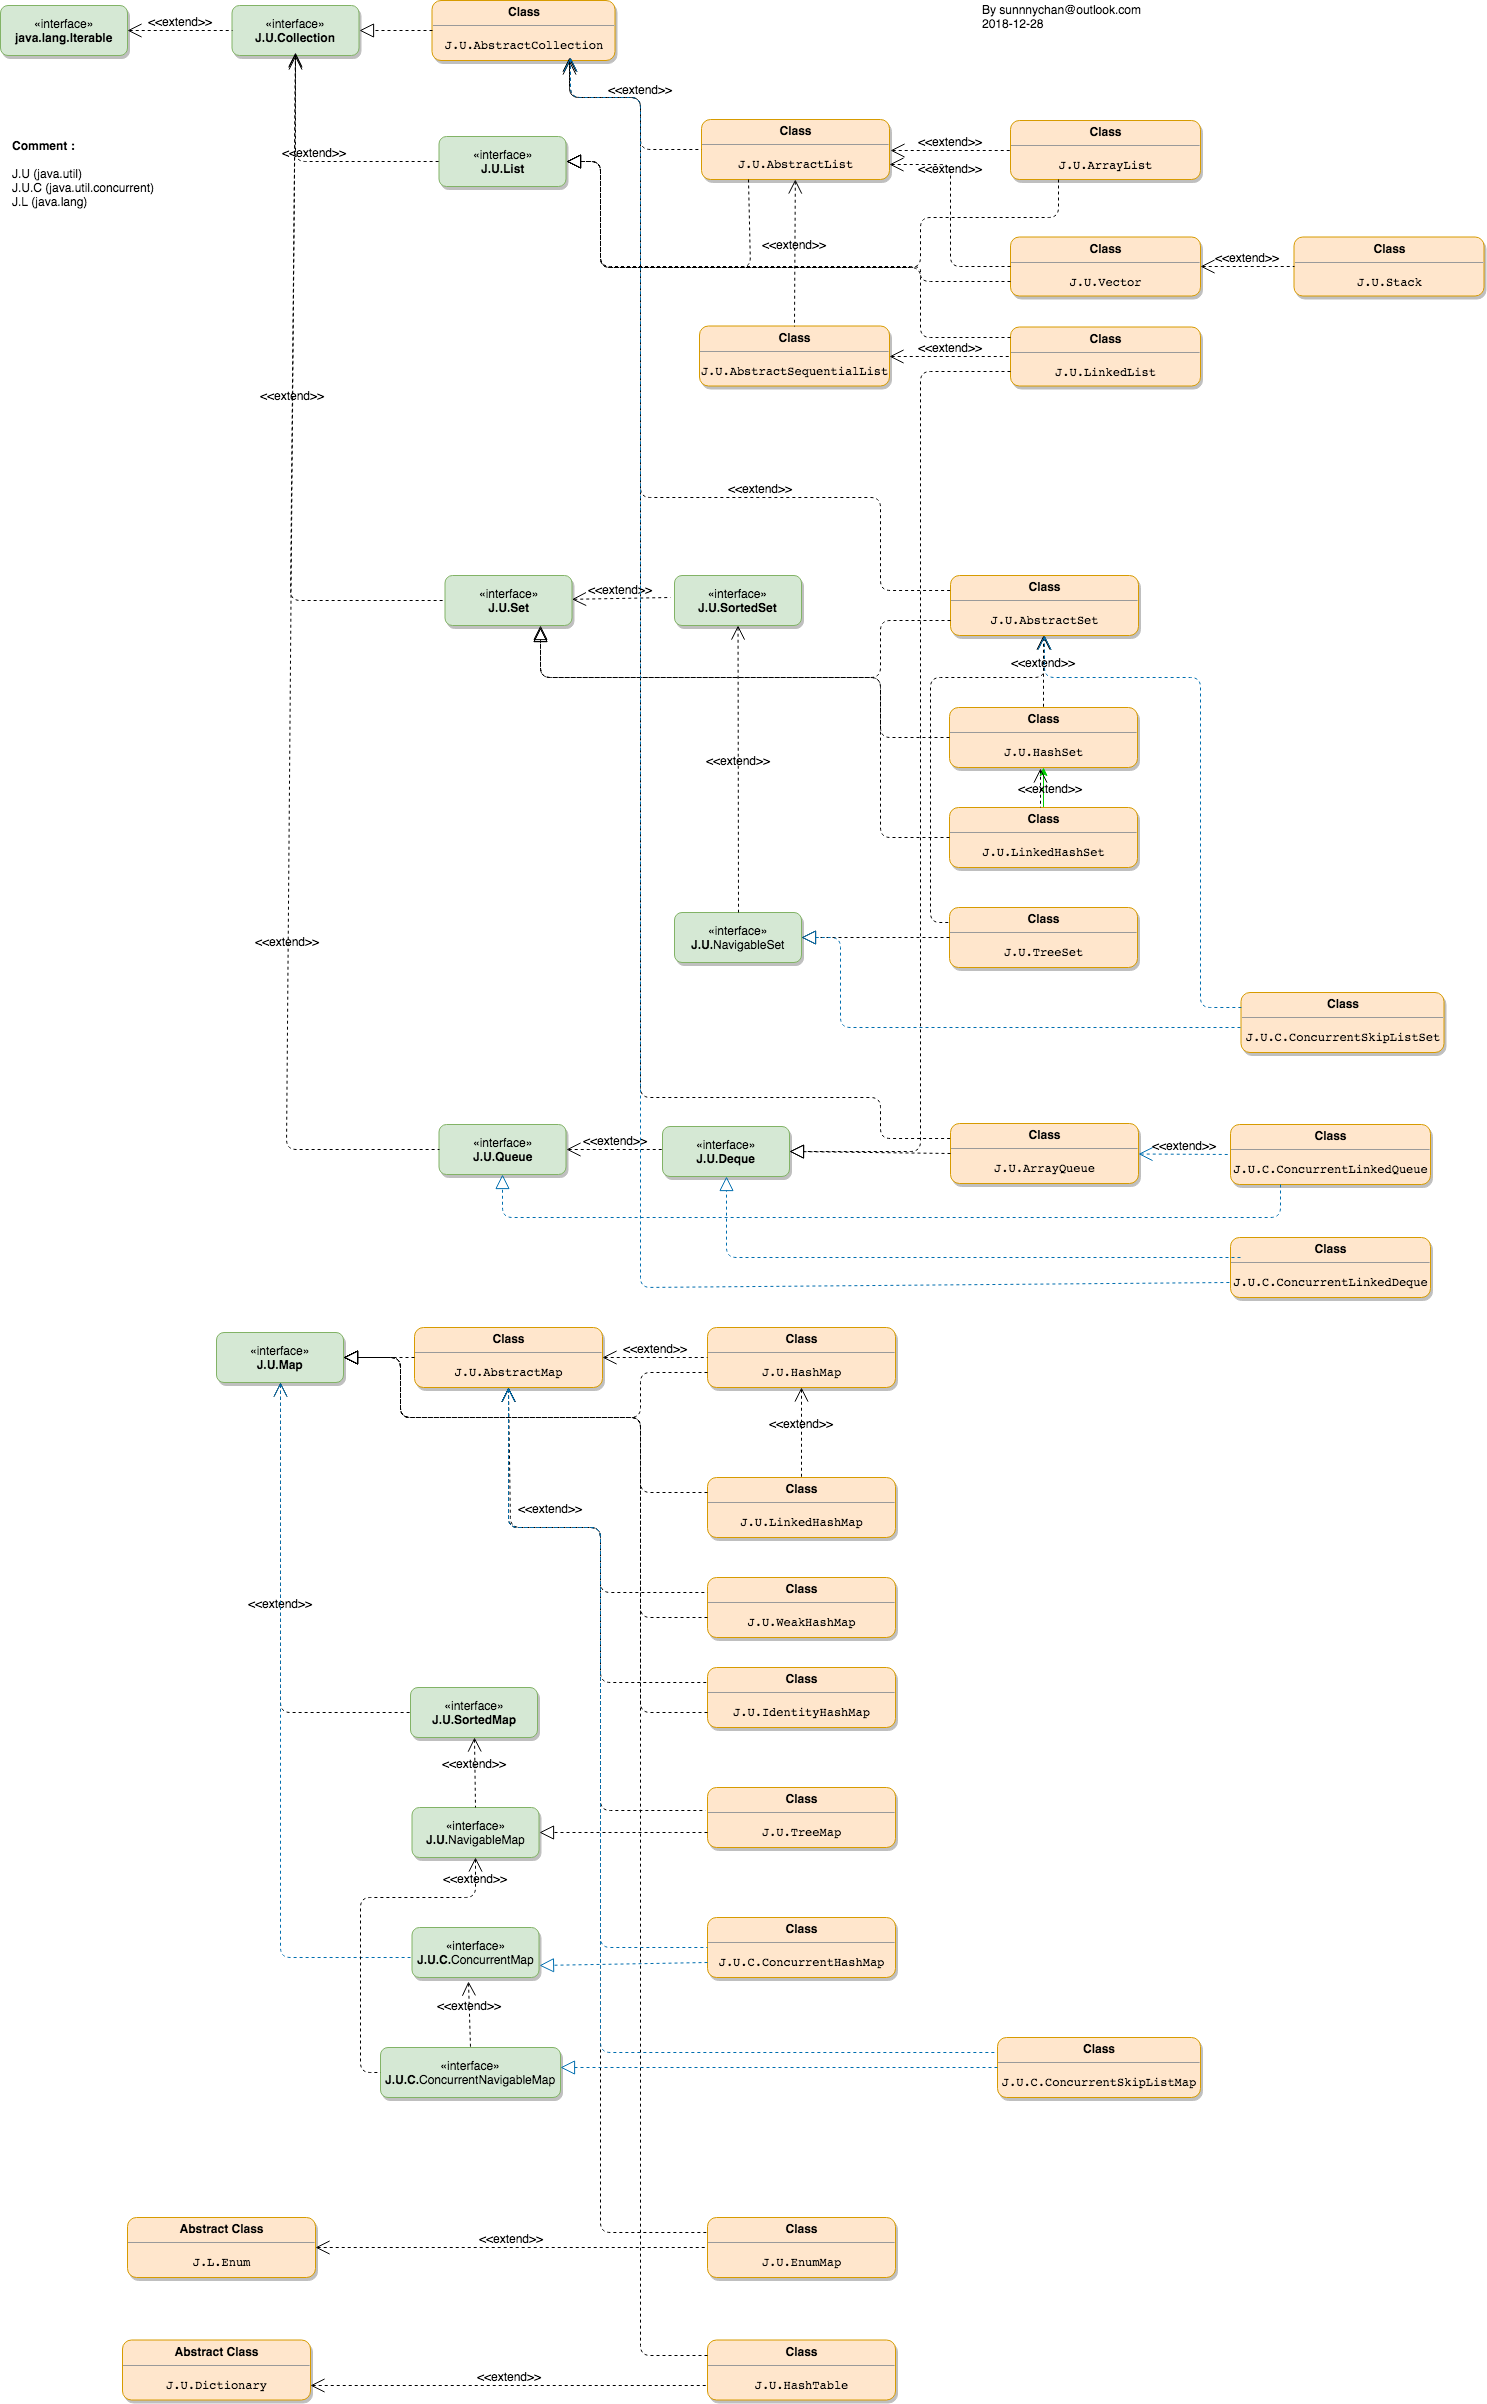
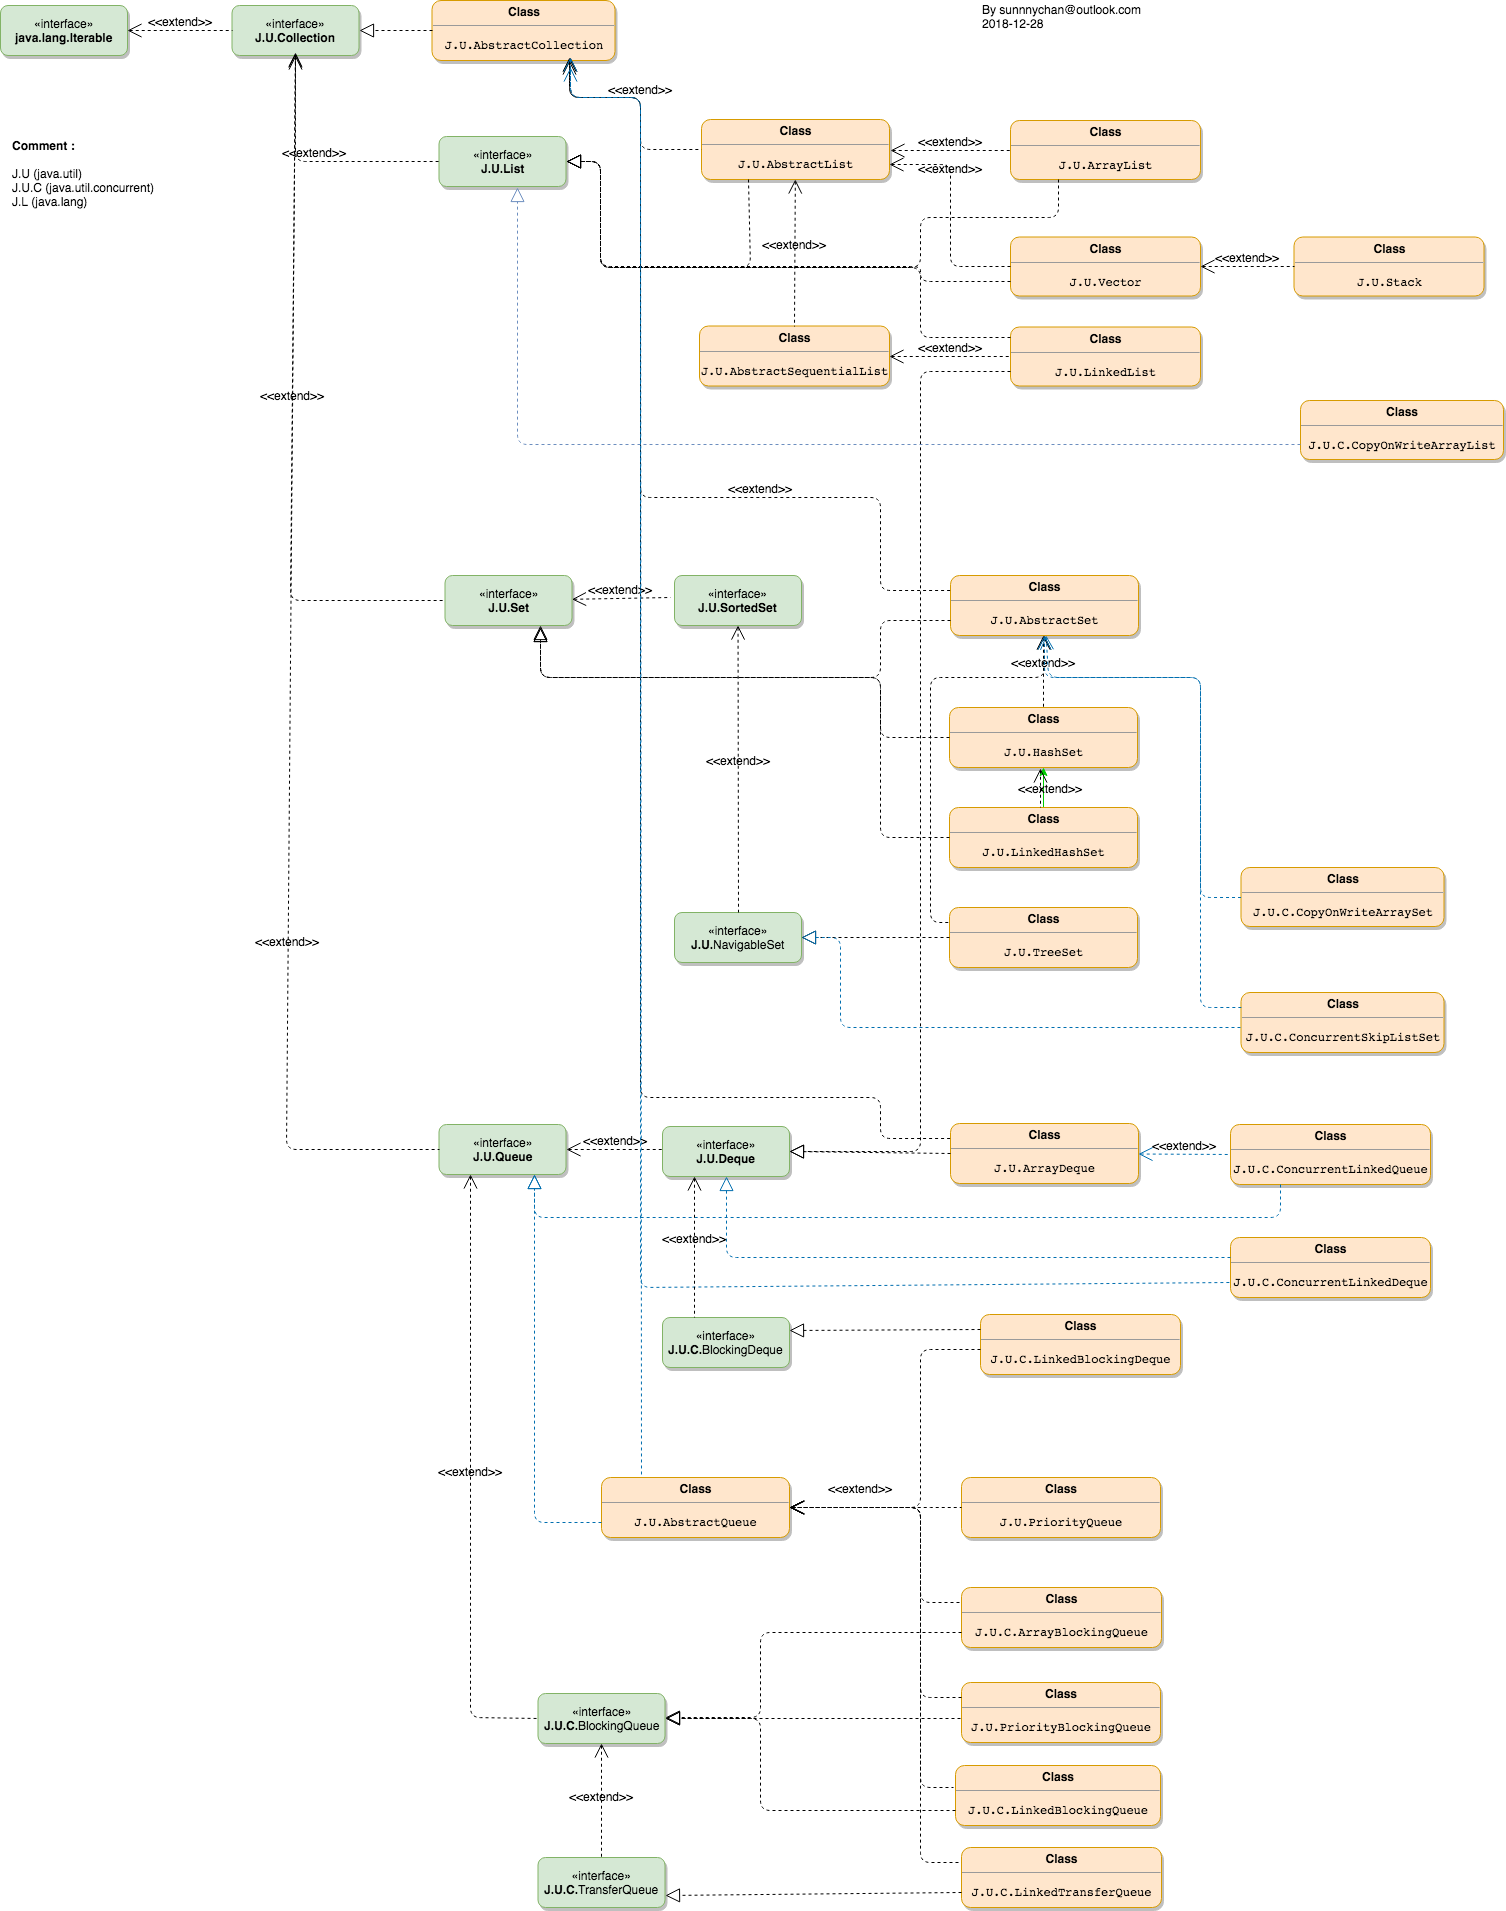
sunnychan

diff --git a/post/readme/sourcecode/java/collection/README.md b/post/readme/sourcecode/java/collection/README.md
@@ -5,5 +5,8 @@
 * [java.util.SortedMap](java.util.SortedMap.md)
 
 
-
+## Collections Class Graph
 ![](java-collections-class-map.png)
+
+## Map Class Graph
+![](java-map-map.png)
